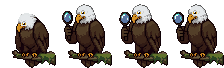
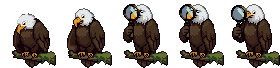
Use variant A for the magnifying-glass search animation
Swaps in the big-glass variant. The frame with two glasses at once is
left out of the take-out, and the glass is trimmed to the shared sprite
frame so no other sheet shifts.

diff --git a/src/styles.css b/src/styles.css
@@ -565,17 +565,17 @@
   background-size: 800% 100%;
   animation: eagle-reading-frames 2s steps(8, jump-none) infinite;
 }
-/* Search open: raises a magnifying glass (4 frames, once), then peers
+/* Search open: takes out a magnifying glass (5 frames, once), then peers
    through it in a loop for as long as the search box stays open. */
 .study-eagle-sprite-openingGlass {
   background-image: url("/eagle-search-open.png");
-  background-size: 400% 100%;
-  animation: eagle-reading-frames 0.6s steps(4, jump-none) forwards;
+  background-size: 500% 100%;
+  animation: eagle-reading-frames 0.75s steps(5, jump-none) forwards;
 }
 .study-eagle-sprite-searching {
   background-image: url("/eagle-search.png");
-  background-size: 400% 100%;
-  animation: eagle-reading-frames 1.2s steps(4, jump-none) infinite;
+  background-size: 600% 100%;
+  animation: eagle-reading-frames 1.5s steps(6, jump-none) infinite;
 }
 /* Every sheet has its own layer (StudyEagle.tsx); only the active one shows. With
    no animation, a layer that becomes active starts again from frame 1. */

diff --git a/src/lib/eagle-state.ts b/src/lib/eagle-state.ts
@@ -48,7 +48,7 @@ export const MODE_DURATION_MS: Partial<Record<EagleMode, number>> = {
   celebrating: 1_100, // 8-frame wing-flap
   petting: 900, // 8-frame head-bob
   openingBook: 900, // 6 frames: takes out the book
-  openingGlass: 600, // 4 frames: raises the magnifying glass
+  openingGlass: 750, // 5 frames: takes out the magnifying glass
 };
 
 /** What's going on around the eagle that decides where he settles. */

diff --git a/scripts/build-eagle-sprites.py b/scripts/build-eagle-sprites.py
@@ -27,8 +27,8 @@ cut end sits against the right edge of the screen:
   public/eagle-grind.png      6 frames (loop: scribbling in the notepad)
   public/eagle-startled.png   8 frames (played once: tapped while asleep)
   public/eagle-drowsy.png     8 frames (loop: drowsy, just before falling asleep)
-  public/eagle-search-open.png 4 frames (played once: raises the magnifying glass)
-  public/eagle-search.png     4 frames (loop: peering through it while search is open)
+  public/eagle-search-open.png 5 frames (played once: takes out the magnifying glass)
+  public/eagle-search.png     6 frames (loop: peering through it while search is open)
 
 The animated frames get one consistent eye drawn in (fix_eye), because the
 animation model's eyes sat under a low, slanted brow that looked sad. The beak and
@@ -414,9 +414,13 @@ search80 = [fix_eye(f) for f in search80]   # the model's eye wandered between f
 # one shared frame: starts at the branch's cut end (wing tips past it go "off screen")
 STUB_X = 16 + 1
 al = np.any([f[..., 3] > 0 for f in sleep80 + idle80 + celebrate80 + pet80 + fallasleep80 + wakeup80
-             + reading80 + grind80 + startled80 + drowsy80 + search80], axis=0)
+             + reading80 + grind80 + startled80 + drowsy80], axis=0)
 ys, xs = np.nonzero(al)
 y0, y1, x1 = ys.min(), ys.max() + 1, xs.max() + 1
+# The magnifying glass pokes a pixel past the shared frame; trim it rather than
+# grow every sheet.
+for f in search80:
+    f[:y0] = 0; f[y1:] = 0; f[:, x1:] = 0
 
 
 def small_parts(f, max_size=40):
@@ -468,13 +472,9 @@ Image.fromarray(finish(startled80), "RGBA").save(OUT / "eagle-startled.png", opt
 Image.fromarray(finish(drowsy80), "RGBA").save(OUT / "eagle-drowsy.png", optimize=True)
 
 # ---------- 11. search: takes out a magnifying glass once, then peers through it ----------
-# Frames 1-2 of the take-out are broken (the glass lies on the branch and gets
-# removed as specks, then floats beside a flattened wing), so the take-out goes
-# straight from the normal pose to raising the glass. Frames 7 and 8 have the eye
-# half shut and can't be redrawn cleanly, so the loop skips them and keeps the
-# standard open eye (see assets/eagle-src/CHARACTER.md).
-SEARCH_OPEN = (0, 3, 4, 5)
-SEARCH_LOOP = (6, 9, 10, 11)
+# Frame 2 of the take-out shows two glasses at once, so it's left out.
+SEARCH_OPEN = (0, 1, 3, 4, 5)
+SEARCH_LOOP = (6, 7, 8, 9, 10, 11)
 Image.fromarray(finish([search80[i] for i in SEARCH_OPEN]), "RGBA").save(
     OUT / "eagle-search-open.png", optimize=True)
 Image.fromarray(finish([search80[i] for i in SEARCH_LOOP]), "RGBA").save(OUT / "eagle-search.png", optimize=True)
